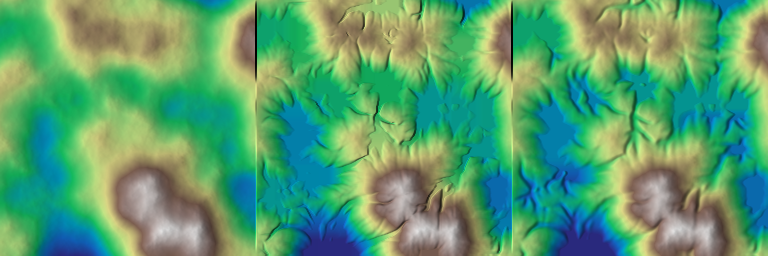
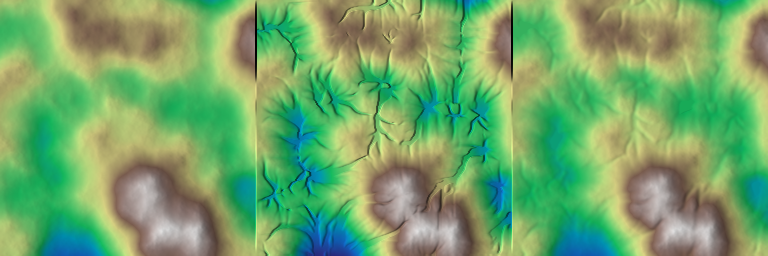
Add hydraulic erosion based on the Stream Power Law

diff --git a/include/highmap/erosion.hpp b/include/highmap/erosion.hpp
@@ -282,6 +282,50 @@ void hydraulic_ridge(Array &z,
                      uint   seed = 1);
 
 /**
+ * @brief Apply hydraulic erosion based on the Stream Power Law formulation.
+ *
+ * @param z Input array.
+ * @param p_mask Intensity mask, expected in [0, 1] (applied as a
+ * post-processing).
+ * @param c_erosion Erosion coefficient.
+ * @param talus_ref Reference talus used to localy define the flow-partition
+ * exponent (small values of `talus_ref` will lead to thinner flow streams, see
+ * {@link flow_accumulation_dinf}).
+ * @param iterations Number of iterations.
+ * @param p_bedrock Lower elevation limit.
+ * @param p_moisture_map Reference to the moisture map (quantity of rain),
+ * expected to be in [0, 1].
+ * @param p_erosion_map[out] Reference to the erosion map, provided as an output
+ * field.
+ * @param ir Gradient prefiltering radius.
+ *
+ * **Example**
+ * @include ex_hydraulic_spl.cpp
+ *
+ * **Result**
+ * @image html ex_hydraulic_spl0.png
+ * @image html ex_hydraulic_spl1.png
+ */
+void hydraulic_spl(Array &z,
+                   float  c_erosion,
+                   float  talus_ref,
+                   int    iterations,
+                   Array *p_bedrock = nullptr,
+                   Array *p_moisture_map = nullptr,
+                   Array *p_erosion_map = nullptr, // -> out
+                   int    ir = 8);
+
+void hydraulic_spl(Array &z,
+                   Array *p_mask,
+                   float  c_erosion,
+                   float  talus_ref,
+                   int    iterations,
+                   Array *p_bedrock = nullptr,
+                   Array *p_moisture_map = nullptr,
+                   Array *p_erosion_map = nullptr, // -> out
+                   int    ir = 8);                    /// @overload
+
+/**
  * @brief Apply hydraulic erosion using based on a flow accumulation map.
  *
  * @param z Input array.
@@ -292,10 +336,10 @@ void hydraulic_ridge(Array &z,
  * exponent (small values of `talus_ref` will lead to thinner flow streams, see
  * {@link flow_accumulation_dinf}).
  * @param p_bedrock Lower elevation limit.
+ * @param p_moisture_map Reference to the moisture map (quantity of rain),
+ * expected to be in [0, 1].
  * @param p_erosion_map[out] Reference to the erosion map, provided as an output
  * field.
- * @param p_deposition_map [out] Reference to the depositio, map, provided as an
- * output field.
  * @param ir Kernel radius. If `ir > 1`, a cone kernel is used to carv channel
  * flow erosion.
  * @param clipping_ratio Flow accumulation clipping ratio.
@@ -304,14 +348,15 @@ void hydraulic_ridge(Array &z,
  * @include ex_hydraulic_stream.cpp
  *
  * **Result**
- * @image html ex_hydraulic_stream.png
+ * @image html ex_hydraulic_stream0.png
+ * @image html ex_hydraulic_stream1.png
  */
 void hydraulic_stream(Array &z,
                       float  c_erosion,
                       float  talus_ref,
                       Array *p_bedrock = nullptr,
-                      Array *p_erosion_map = nullptr,    // -> out
-                      Array *p_deposition_map = nullptr, // -> out
+                      Array *p_moisture_map = nullptr,
+                      Array *p_erosion_map = nullptr, // -> out
                       int    ir = 1,
                       float  clipping_ratio = 10.f);
 
@@ -320,10 +365,10 @@ void hydraulic_stream(Array &z,
                       float  c_erosion,
                       float  talus_ref,
                       Array *p_bedrock = nullptr,
-                      Array *p_erosion_map = nullptr,    // -> out
-                      Array *p_deposition_map = nullptr, // -> out
+                      Array *p_moisture_map = nullptr,
+                      Array *p_erosion_map = nullptr, // -> out
                       int    ir = 1,
-                      float  clipping_ratio = 10.f);
+                      float  clipping_ratio = 10.f); /// @overload
 
 void hydraulic_vpipes(Array &z);
 

diff --git a/src/erosion/hydraulic_stream.cpp b/src/erosion/hydraulic_stream.cpp
@@ -4,6 +4,8 @@
 
 #include <cmath>
 
+#include "macrologger.h"
+
 #include "highmap/array.hpp"
 #include "highmap/hydrology.hpp"
 #include "highmap/op.hpp"
@@ -16,15 +18,15 @@ void hydraulic_stream(Array &z,
                       float  c_erosion,
                       float  talus_ref,
                       Array *p_bedrock,
+                      Array *p_moisture_map,
                       Array *p_erosion_map,
-                      Array *p_deposition_map,
                       int    ir,
                       float  clipping_ratio)
 {
   // keep a backup of the input if the erosion / deposition maps need
   // to be computed
   Array z_bckp = Array({0, 0});
-  if ((p_erosion_map != nullptr) | (p_deposition_map != nullptr))
+  if (p_erosion_map)
     z_bckp = z;
 
   // use flow accumulation to determine erosion intensity
@@ -44,14 +46,17 @@ void hydraulic_stream(Array &z,
     facc = convolve2d_svd(facc, kernel);
   }
 
-  Array ze = z - c_erosion * facc;
+  if (p_moisture_map)
+    z -= (*p_moisture_map) * c_erosion * facc;
+  else
+    z -= c_erosion * facc;
 
   if (p_bedrock)
-    z = maximum(*p_bedrock, ze);
+    z = maximum(*p_bedrock, z);
   else
   {
     hmap::Array z_bedrock = hmap::minimum_local(z, 16 * ir);
-    z = maximum(z_bedrock, ze);
+    z = maximum(z_bedrock, z);
   }
 
   // splatmaps
@@ -60,21 +65,15 @@ void hydraulic_stream(Array &z,
     *p_erosion_map = z_bckp - z;
     clamp_min(*p_erosion_map, 0.f);
   }
-
-  if (p_deposition_map)
-  {
-    *p_deposition_map = z - z_bckp;
-    clamp_min(*p_deposition_map, 0.f);
-  }
 }
 
 void hydraulic_stream(Array &z,
                       Array *p_mask,
                       float  c_erosion,
                       float  talus_ref,
+                      Array *p_moisture_map,
                       Array *p_bedrock,
                       Array *p_erosion_map,
-                      Array *p_deposition_map,
                       int    ir,
                       float  clipping_ratio)
 {
@@ -83,8 +82,8 @@ void hydraulic_stream(Array &z,
                      c_erosion,
                      talus_ref,
                      p_bedrock,
+                     p_moisture_map,
                      p_erosion_map,
-                     p_deposition_map,
                      ir,
                      clipping_ratio);
   else
@@ -94,8 +93,8 @@ void hydraulic_stream(Array &z,
                      c_erosion,
                      talus_ref,
                      p_bedrock,
+                     p_moisture_map,
                      p_erosion_map,
-                     p_deposition_map,
                      ir,
                      clipping_ratio);
     z = lerp(z, z_f, *(p_mask));

diff --git a/src/erosion/hydraulic_spl.cpp b/src/erosion/hydraulic_spl.cpp
@@ -1,0 +1,103 @@
+/* Copyright (c) 2023 Otto Link. Distributed under the terms of the GNU General
+ * Public License. The full license is in the file LICENSE, distributed with
+ * this software. */
+
+#include <cmath>
+
+#include "highmap/array.hpp"
+#include "highmap/hydrology.hpp"
+#include "highmap/op.hpp"
+#include "highmap/primitives.hpp"
+
+namespace hmap
+{
+
+void hydraulic_spl(Array &z,
+                   float  c_erosion,
+                   float  talus_ref,
+                   int    iterations,
+                   Array *p_bedrock,
+                   Array *p_moisture_map,
+                   Array *p_erosion_map,
+                   int    ir)
+{
+  Array facc = Array(z.shape);
+  Array dz = Array(z.shape);
+
+  // keep a backup of the input if the erosion / deposition maps need
+  // to be computed
+  Array z_bckp = Array({0, 0});
+  if (p_erosion_map)
+    z_bckp = z;
+
+  // default bedrock
+  Array z_bedrock = Array();
+  if (!p_bedrock)
+    z_bedrock = hmap::minimum_local(z, 8 * ir);
+
+  // main loop
+  for (int it = 0; it < iterations; it++)
+  {
+    facc = flow_accumulation_dinf(z, talus_ref);
+
+    // prefilter heightmap for the gradient norm
+    {
+      auto zf = z;
+      smooth_cpulse(zf, ir);
+      dz = gradient_norm(zf);
+    }
+
+    if (p_moisture_map)
+      z += -c_erosion * (*p_moisture_map) * facc * dz;
+    else
+      z += -c_erosion * facc * dz;
+
+    if (p_bedrock)
+      z = maximum(z, *p_bedrock);
+    else
+      z = maximum(z, z_bedrock);
+  }
+
+  // splatmaps
+  if (p_erosion_map)
+  {
+    *p_erosion_map = z_bckp - z;
+    clamp_min(*p_erosion_map, 0.f);
+  }
+}
+
+void hydraulic_spl(Array &z,
+                   Array *p_mask,
+                   float  c_erosion,
+                   float  talus_ref,
+                   int    iterations,
+                   Array *p_bedrock,
+                   Array *p_moisture_map,
+                   Array *p_erosion_map,
+                   int    ir)
+{
+  if (!p_mask)
+    hydraulic_spl(z,
+                  c_erosion,
+                  talus_ref,
+                  iterations,
+                  p_bedrock,
+                  p_moisture_map,
+                  p_erosion_map,
+                  ir);
+  else
+  {
+    Array z_f = z;
+    hydraulic_spl(z_f,
+                  c_erosion,
+                  talus_ref,
+                  iterations,
+                  p_bedrock,
+                  p_moisture_map,
+                  p_erosion_map,
+                  ir);
+    z = lerp(z, z_f, *(p_mask));
+  }
+}
+
+} // namespace hmap

diff --git a/examples/ex_hydraulic_stream/ex_hydraulic_stream.cpp b/examples/ex_hydraulic_stream/ex_hydraulic_stream.cpp
@@ -1,8 +1,4 @@
-#include "highmap/array.hpp"
-#include "highmap/erosion.hpp"
-#include "highmap/io.hpp"
-#include "highmap/op.hpp"
-#include "highmap/primitives.hpp"
+#include "highmap.hpp"
 
 int main(void)
 {
@@ -11,7 +7,8 @@ int main(void)
   int               seed = 1;
 
   hmap::Array z = hmap::fbm_perlin(shape, res, seed);
-  auto        z0 = z;
+  hmap::remap(z);
+  auto z0 = z;
 
   float       c_erosion = 0.1f;
   float       talus_ref = 5.f / (float)shape.x;
@@ -25,14 +22,14 @@ int main(void)
   int  ir = 5;
 
   auto erosion_map = hmap::Array(shape);
-  auto deposition_map = hmap::Array(shape);
+  auto moisture_map = z;
 
   hmap::hydraulic_stream(z2,
                          c_erosion,
                          talus_ref,
                          &z_bedrock,
+                         &moisture_map,
                          &erosion_map,
-                         &deposition_map,
                          ir);
 
   hmap::export_banner_png("ex_hydraulic_stream0.png",
@@ -40,7 +37,5 @@ int main(void)
                           hmap::cmap::terrain,
                           true);
 
-  hmap::export_banner_png("ex_hydraulic_stream1.png",
-                          {erosion_map, deposition_map},
-                          hmap::cmap::inferno);
+  erosion_map.to_png("ex_hydraulic_stream1.png", hmap::cmap::inferno);
 }

diff --git a/examples/ex_hydraulic_spl/ex_hydraulic_spl.cpp b/examples/ex_hydraulic_spl/ex_hydraulic_spl.cpp
@@ -1,0 +1,39 @@
+#include "highmap.hpp"
+
+int main(void)
+{
+  hmap::Vec2<int>   shape = {512, 512};
+  hmap::Vec2<float> res = {2.f, 2.f};
+  int               seed = 1;
+
+  hmap::Array z = hmap::fbm_perlin(shape, res, seed);
+  hmap::remap(z);
+
+  float talus_ref = 10.f / (float)shape.x;
+  float c_erosion = 0.01f;
+  int   iterations = 10;
+
+  int         iradius = 64;
+  hmap::Array z_bedrock = hmap::minimum_local(z, iradius);
+
+  auto z1 = z;
+  hmap::hydraulic_spl(z1, c_erosion, talus_ref, iterations, &z_bedrock);
+
+  auto z2 = z;
+  auto erosion_map = hmap::Array(shape);
+  auto moisture_map = z;
+  hmap::hydraulic_spl(z2,
+                      c_erosion,
+                      talus_ref,
+                      iterations,
+                      &z_bedrock,
+                      &moisture_map,
+                      &erosion_map);
+
+  hmap::export_banner_png("ex_hydraulic_spl0.png",
+                          {z, z1, z2},
+                          hmap::cmap::terrain,
+                          true);
+
+  erosion_map.to_png("ex_hydraulic_spl1.png", hmap::cmap::inferno);
+}
